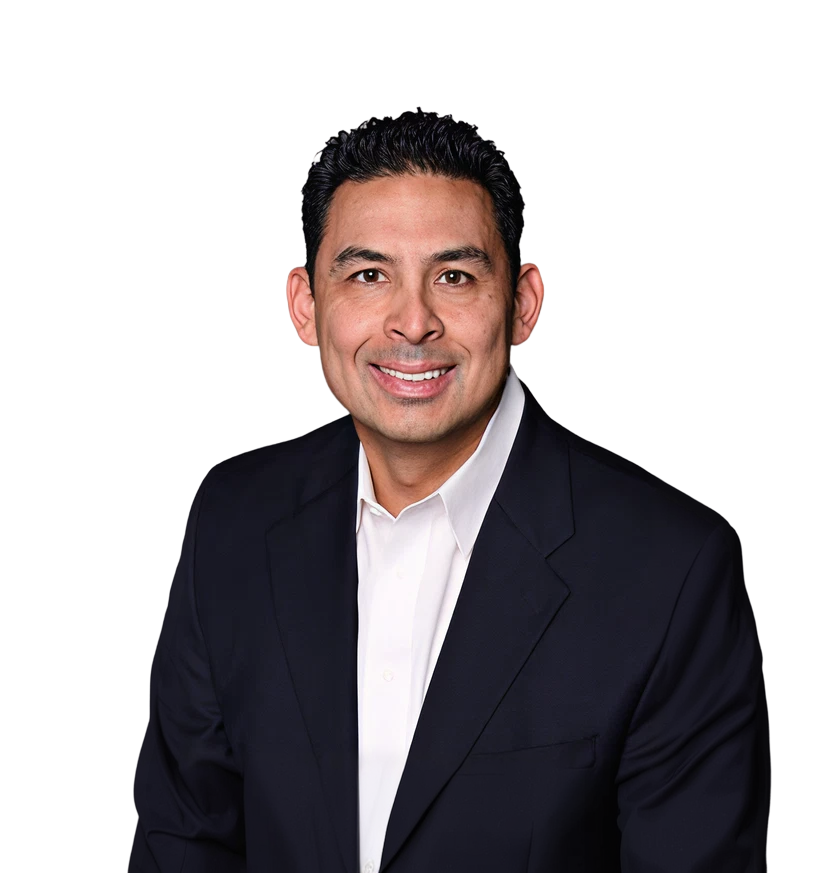
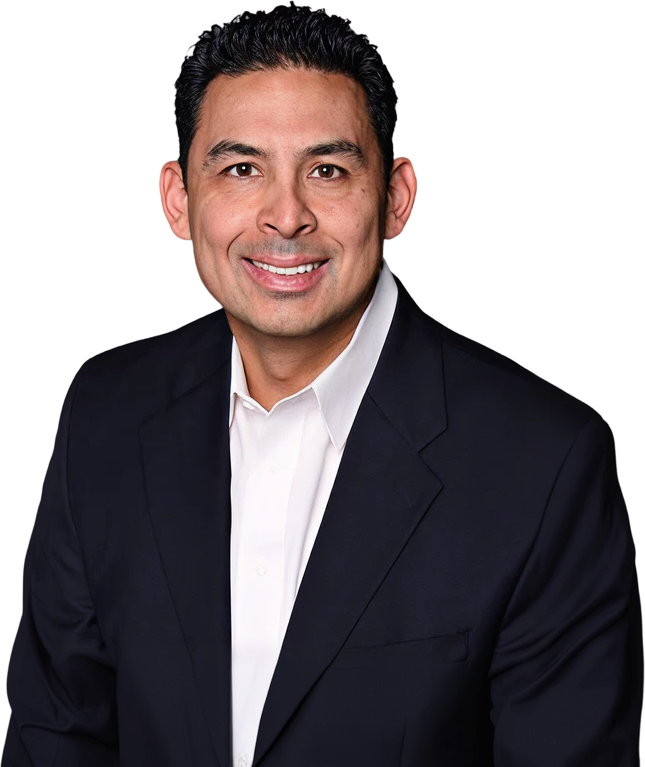
Add provider Courtney; provider detail popup on Providers page
- Add Courtney (FNP) with cut-out photo and bio; apply Edward's updated
  bio and Co-Founder title.
- Providers page: grid of clickable provider tiles that open a modal
  popup with the full image, bio, specialties, experience, and CTA.
- Deep links (/providers#<id>) auto-open that provider's popup, so the
  home "Meet our Providers" cards route in and pop the person open.
- Center Edward's cut-out (trim transparent padding) so it isn't sided.

diff --git a/src/ProvidersPage.tsx b/src/ProvidersPage.tsx
@@ -6,6 +6,7 @@
 import { useEffect, useState, type ReactNode } from 'react'
 import { useLocation } from 'react-router-dom'
 import {
+  ARROW,
   BOOK,
   CapsuleFrame,
   Container,
@@ -222,56 +223,145 @@ function TeamIntro() {
  * Provider cards
  * ------------------------------------------------------------------------- */
 
-type Crop = { width: string; height: string; left: string; top: string }
-type Provider = { id: string; name: string; title: string; img: string; crop: Crop }
+type Provider = {
+  id: string
+  name: string
+  title: string
+  img: string
+  specialties: string[]
+  experience: string
+  bio: string[]
+}
 
-// Crops mirror the Figma node placements so each face is framed identically.
 const PROVIDERS: Provider[] = [
-  { id: 'edward', name: 'Edward Martinez', title: 'PA-C', img: '/assets/prov-src-2.png', crop: { width: '100%', height: '128.78%', left: '0%', top: '0%' } },
+  {
+    id: 'edward',
+    name: 'Edward Martinez',
+    title: 'PA-C · Co-Founder',
+    img: '/assets/prov-src-2.png',
+    specialties: ['Family & Internal Medicine', 'Bioidentical Hormone Therapy', 'Peptide Therapy'],
+    experience: '20+ Years Experience',
+    bio: [
+      'Edward Martinez is a licensed Physician Associate and co-founder of First MD. He started in healthcare after graduating with a BSN from Texas Tech University in 1997. After several years as a registered nurse, he continued his education and graduated with a PA degree from University of Texas - Pan American in 2004. Edward has experience in a variety of disciplines including surgery, internal medicine and family medicine. He is constantly learning how to better care for his patients and is certified in bio-identical hormone replacement therapy and has peptide therapy certification by the International Peptide Society. With a focus on disease prevention, he is also a member of the American Academy of Anti-Aging Medicine and pursuing a functional medicine certification.',
+      'Edward considers it a privilege to collaborate with you in your healthcare journey. He is thorough in his assessments and takes the time to listen to your concerns in order to develop a personalized treatment plan.',
+      'Edward enjoys teaching and is a preceptor for Nurse Practitioner and PA students from regional universities. He lives locally, enjoys spending time with his family and reading about science-related topics. He is a health and fitness enthusiast and a 2-time Ironman finisher.',
+    ],
+  },
+  {
+    id: 'courtney',
+    name: 'Courtney',
+    title: 'FNP',
+    img: '/assets/prov-courtney.png',
+    specialties: ['Primary & Urgent Care', 'Family Medicine', 'Patient Education'],
+    experience: '12+ Years Experience',
+    bio: [
+      "Courtney is a Family Nurse Practitioner who graduated from Texas Woman's University. With more than 12 years of experience as a critical care RN, she brings a strong clinical foundation and compassionate approach to patient care. Currently specializing in primary and urgent care, Courtney is dedicated to providing thorough, personalized treatment while prioritizing patient well-being and optimal health outcomes.",
+      'Known for a personable and attentive bedside manner, Courtney values building trusting relationships with patients and creating an environment where individuals feel heard and supported. She is passionate about patient education and believes informed patients are empowered to make confident decisions about their health. By combining evidence-based practice with compassionate care, Courtney strives to help patients achieve long-term wellness and improved quality of life.',
+    ],
+  },
 ]
 
-const PROVIDER_SPECIALTIES = ['Family Medicine', 'Preventive Care', 'Chronic Disease Management']
-
-function ProviderFeature({ provider, highlighted }: { provider: Provider; highlighted?: boolean }) {
+/** Compact clickable tile — opens the provider's popup. */
+function ProviderTile({ provider, onOpen }: { provider: Provider; onOpen: () => void }) {
   return (
-    <div
+    <button
       id={provider.id}
-      className={`group flex scroll-mt-28 flex-col overflow-hidden rounded-3xl border bg-white shadow-sm transition-all duration-300 hover:shadow-xl lg:flex-row lg:items-stretch ${
-        highlighted ? 'border-accent ring-4 ring-accent/40 ring-offset-2 ring-offset-page' : 'border-navy'
-      }`}
+      type="button"
+      onClick={onOpen}
+      aria-label={`View ${provider.name}'s profile`}
+      className="group flex scroll-mt-28 flex-col overflow-hidden rounded-3xl border border-navy bg-white text-left shadow-sm transition-all duration-300 hover:-translate-y-1 hover:shadow-xl"
     >
-      {/* Photo — fixed aspect on mobile, stretches alongside the details on desktop */}
-      <div className="relative aspect-[312/253] w-full shrink-0 overflow-hidden bg-navy lg:aspect-auto lg:min-h-[440px] lg:w-[46%]">
+      <div className="relative h-[360px] overflow-hidden bg-gradient-to-b from-blue to-navy">
         <img
           src={provider.img}
           alt={provider.name}
-          className="h-full w-full object-cover object-top transition-transform duration-500 group-hover:scale-105"
+          className="absolute inset-0 mx-auto h-full w-auto max-w-none object-contain object-bottom transition-transform duration-500 group-hover:scale-[1.04]"
         />
       </div>
-
-      {/* Details */}
-      <div className="flex flex-1 flex-col gap-6 p-7 lg:p-12">
+      <div className="flex items-center justify-between gap-4 p-6">
         <div>
-          <p className="font-poppins text-3xl font-bold text-navy lg:text-4xl">{provider.name}</p>
-          <p className="font-poppins text-xl font-bold text-navy">{provider.title}</p>
+          <p className="font-poppins text-xl font-bold text-navy">{provider.name}</p>
+          <p className="font-poppins text-base font-bold text-blue">{provider.title}</p>
         </div>
-        <span className="block h-px w-full bg-navy/15" />
-        <ul className="flex flex-col gap-3">
-          {PROVIDER_SPECIALTIES.map((s) => (
-            <li key={s} className="flex items-start gap-3 font-poppins text-lg text-navy">
-              <CheckRing />
-              {s}
-            </li>
-          ))}
-        </ul>
-        <span className="block h-px w-full bg-navy/15" />
-        <div className="flex items-center gap-3">
-          <Star />
-          <span className="font-poppins text-lg text-navy">20+ Years Experience</span>
+        <span className="whitespace-nowrap font-poppins text-sm font-bold text-blue transition-colors group-hover:text-navy">
+          View profile {ARROW}
+        </span>
+      </div>
+    </button>
+  )
+}
+
+/** Full-detail popup for a provider. */
+function ProviderModal({ provider, onClose }: { provider: Provider; onClose: () => void }) {
+  useEffect(() => {
+    const onKey = (e: KeyboardEvent) => {
+      if (e.key === 'Escape') onClose()
+    }
+    document.addEventListener('keydown', onKey)
+    document.body.style.overflow = 'hidden'
+    return () => {
+      document.removeEventListener('keydown', onKey)
+      document.body.style.overflow = ''
+    }
+  }, [onClose])
+
+  return (
+    <div className="fixed inset-0 z-[100] flex items-center justify-center p-4 sm:p-6" role="dialog" aria-modal="true" aria-label={provider.name}>
+      {/* Backdrop */}
+      <div className="absolute inset-0 bg-navy/60 backdrop-blur-sm" onClick={onClose} />
+
+      {/* Card */}
+      <div className="relative z-10 flex max-h-[90vh] w-full max-w-[900px] flex-col overflow-hidden rounded-3xl bg-white shadow-2xl lg:flex-row lg:items-stretch">
+        <button
+          type="button"
+          onClick={onClose}
+          aria-label="Close"
+          className="absolute right-4 top-4 z-20 grid size-10 place-items-center rounded-full bg-white/85 text-navy shadow-md backdrop-blur transition-colors hover:bg-white"
+        >
+          <svg viewBox="0 0 24 24" className="size-5" fill="none" stroke="currentColor" strokeWidth="2.2" strokeLinecap="round">
+            <path d="M6 6l12 12M18 6L6 18" />
+          </svg>
+        </button>
+
+        {/* Photo */}
+        <div className="relative h-[300px] shrink-0 overflow-hidden bg-gradient-to-b from-blue to-navy sm:h-[380px] lg:h-auto lg:w-[42%]">
+          <img
+            src={provider.img}
+            alt={provider.name}
+            className="absolute inset-0 mx-auto h-full w-auto max-w-none object-contain object-bottom"
+          />
         </div>
-        <PillButton variant="accent" href={BOOK} className="mt-1 self-start">
-          Book Appointment
-        </PillButton>
+
+        {/* Content (scrolls if long) */}
+        <div className="flex flex-1 flex-col gap-4 overflow-y-auto p-7 lg:p-10">
+          <div>
+            <p className="font-poppins text-3xl font-bold text-navy">{provider.name}</p>
+            <p className="font-poppins text-lg font-bold text-blue">{provider.title}</p>
+          </div>
+          <div className="flex flex-col gap-3">
+            {provider.bio.map((para, i) => (
+              <p key={i} className="font-poppins text-base leading-relaxed text-ink">
+                {para}
+              </p>
+            ))}
+          </div>
+          <span className="block h-px w-full bg-navy/15" />
+          <ul className="flex flex-col gap-2.5">
+            {provider.specialties.map((s) => (
+              <li key={s} className="flex items-start gap-3 font-poppins text-base text-navy">
+                <CheckRing />
+                {s}
+              </li>
+            ))}
+          </ul>
+          <div className="flex items-center gap-3">
+            <Star />
+            <span className="font-poppins text-lg text-navy">{provider.experience}</span>
+          </div>
+          <PillButton variant="accent" href={BOOK} className="mt-1 self-start">
+            Book Appointment
+          </PillButton>
+        </div>
       </div>
     </div>
   )
@@ -279,23 +369,23 @@ function ProviderFeature({ provider, highlighted }: { provider: Provider; highli
 
 function ProvidersGrid() {
   const hash = useLocation().hash.replace('#', '')
-  const [active, setActive] = useState('')
+  const [activeId, setActiveId] = useState<string | null>(null)
 
-  // Highlight the deep-linked provider, then clear it after 5 seconds.
+  // Deep link (e.g. /providers#courtney) auto-opens that provider's popup.
   useEffect(() => {
-    if (!hash) return
-    setActive(hash)
-    const t = setTimeout(() => setActive(''), 5000)
-    return () => clearTimeout(t)
+    if (hash && PROVIDERS.some((p) => p.id === hash)) setActiveId(hash)
   }, [hash])
+
+  const active = PROVIDERS.find((p) => p.id === activeId) ?? null
 
   return (
     <Container className="py-12">
-      <Reveal className="mx-auto w-full max-w-[920px]">
+      <Reveal className="mx-auto grid w-full max-w-[840px] grid-cols-1 gap-8 sm:grid-cols-2">
         {PROVIDERS.map((p) => (
-          <ProviderFeature key={p.name} provider={p} highlighted={p.id === active} />
+          <ProviderTile key={p.id} provider={p} onOpen={() => setActiveId(p.id)} />
         ))}
       </Reveal>
+      {active && <ProviderModal provider={active} onClose={() => setActiveId(null)} />}
     </Container>
   )
 }

diff --git a/src/shared.tsx b/src/shared.tsx
@@ -569,6 +569,7 @@ type Provider = { id: string; name: string; title: string; img?: string; bio?: s
 
 const PROVIDERS: Provider[] = [
   { id: 'edward', name: 'Edward Martinez', title: 'PA-C', img: '/assets/prov-edward.png' },
+  { id: 'courtney', name: 'Courtney', title: 'FNP', img: '/assets/prov-courtney.png' },
 ]
 
 function ProviderCard({ provider }: { provider: Provider }) {
@@ -583,7 +584,7 @@ function ProviderCard({ provider }: { provider: Provider }) {
           <img
             src={provider.img}
             alt={provider.name}
-            className="h-full w-full object-cover transition-transform duration-500 group-hover:scale-105"
+            className="h-full w-full object-cover object-top transition-transform duration-500 group-hover:scale-105"
           />
         ) : (
           <p className="p-6 pb-16 text-center font-poppins text-sm leading-relaxed text-white">{provider.bio}</p>
@@ -605,7 +606,7 @@ export function Providers() {
       <Container className="relative z-10 py-14 lg:py-20">
         <Reveal className="flex flex-col items-center gap-12">
           <h2 className="text-center font-poppins text-4xl font-bold text-navy lg:text-6xl">Meet our Providers</h2>
-          <div className="grid w-full grid-cols-1 justify-items-center gap-x-4 gap-y-12">
+          <div className="mx-auto grid w-full max-w-[680px] grid-cols-1 justify-items-center gap-x-6 gap-y-14 sm:grid-cols-2">
             {PROVIDERS.map((p) => (
               <ProviderCard key={p.name} provider={p} />
             ))}
